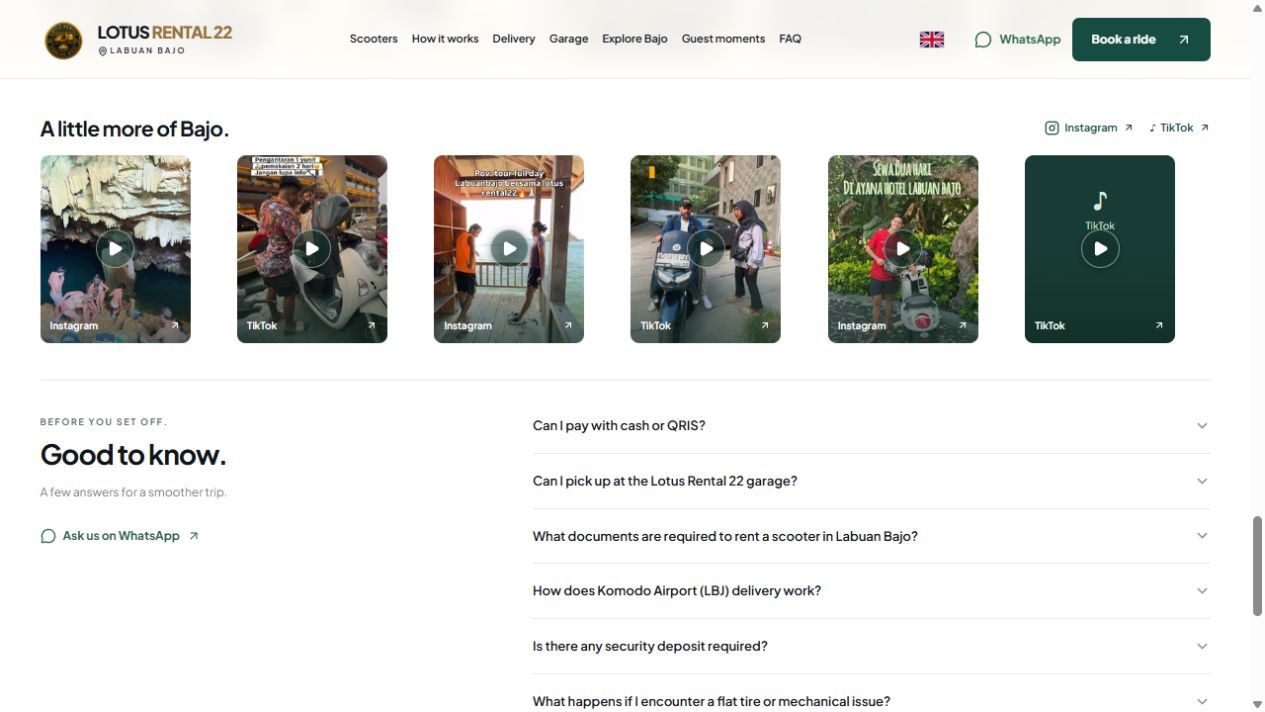
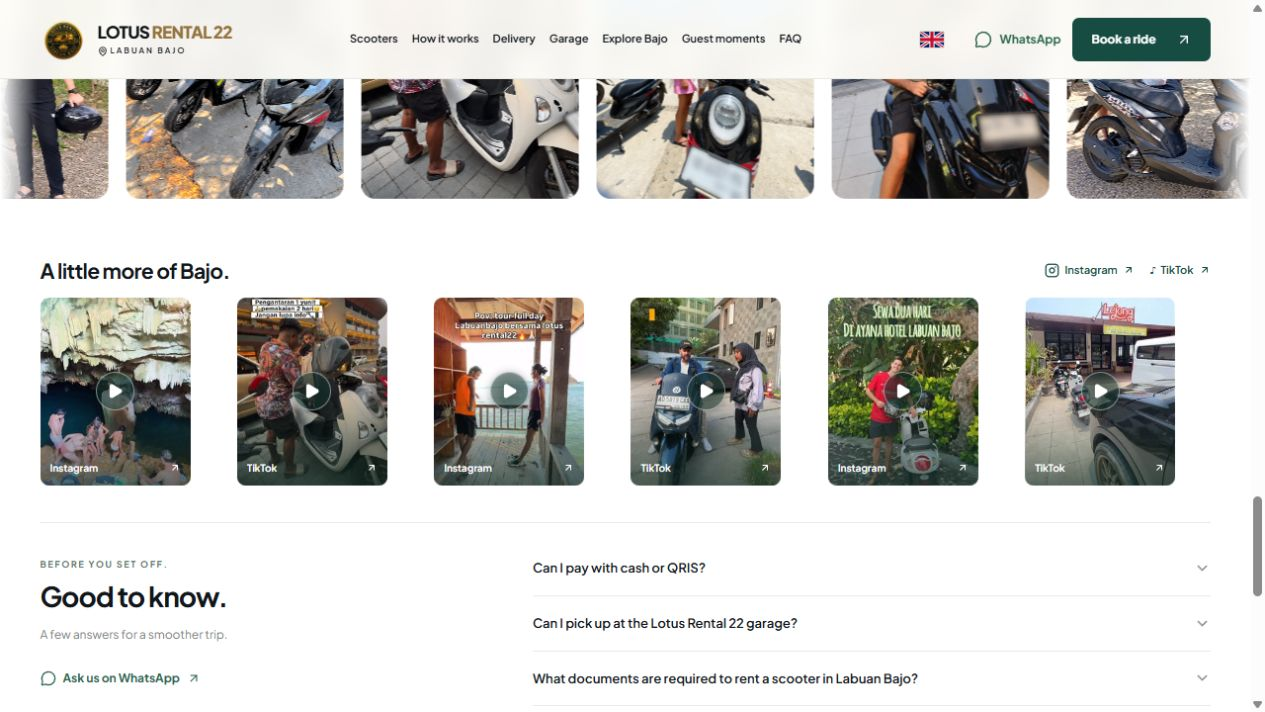
Replace sixth TikTok preview with available video cover

diff --git a/src/data/socialMedia.ts b/src/data/socialMedia.ts
@@ -8,5 +8,6 @@ export const SOCIAL_VIDEOS = [
   {id:'DeMzKrHSPuj',platform:'Instagram',url:'https://www.instagram.com/reel/DeMzKrHSPuj/',cover:'/assets/social/instagram-DeMzKrHSPuj.jpg'},
   {id:'7696095501267094802',platform:'TikTok',url:'https://www.tiktok.com/@rental_motorbajo/video/7696095501267094802',cover:'/assets/social/tiktok-7696095501267094802.jpg'},
   {id:'Ded8xQgykNy',platform:'Instagram',url:'https://www.instagram.com/reel/Ded8xQgykNy/',cover:'/assets/social/instagram-Ded8xQgykNy.jpg'},
-  {id:'7695616389188455687',platform:'TikTok',url:'https://www.tiktok.com/@rental_motorbajo/video/7695616389188455687',cover:null},
+  {id:'7695631504084307218',platform:'TikTok',url:'https://www.tiktok.com/@rental_motorbajo/video/7695631504084307218',cover:'/assets/social/tiktok-7695631504084307218.jpg'},
 ];
+

diff --git a/docs/ASSET_SOURCES.md b/docs/ASSET_SOURCES.md
@@ -32,3 +32,6 @@ Seven owner-supplied handover photos, naturally enhanced using built-in imagegen
 Compact six-card row directly below the guest photo carousel. 145px-high mobile cards scroll horizontally; desktop covers capped at 190px. Links open the exact six owner-selected original posts in new tabs. No embeds, social SDKs, video elements or autoplay; five local 400px-max JPEG covers total 125,094 bytes, lazy-loaded. Sixth TikTok (7695616389188455687) returned unavailable thumbnail metadata after timeout/503 and empty metadata; deliberate branded fallback retains its original URL, without substituting unrelated imagery. Links can require platform login/availability. No OAuth/account access or automatic-feed sync is implied.
 
 Profile URLs: https://www.instagram.com/lotus_rental22/ and https://www.tiktok.com/@rental_motorbajo. Instagram footer link corrected. Edit profiles/posts in src/data/socialMedia.ts. Covers sourced from the public Instagram embed page cover and TikTok oEmbed thumbnail for the selected posts, then locally resized/compressed. Original tracking query parameters omitted from post links. Firecrawl could not retrieve these domains; public embed/oEmbed metadata used instead. No third-party resources requested by this section before a visitor follows a link.
+
+## TikTok replacement — 19 October 2026
+Sixth card replaced with owner-selected https://www.tiktok.com/@rental_motorbajo/video/7695631504084307218. Cover retrieved from public webapp.video-detail metadata (oEmbed omitted thumbnail), resized to max 400px JPEG quality 80. Browser confirmed new URL, local cover and successful image load. All six cards now have original post covers. TypeScript/build passed.

diff --git a/README.md b/README.md
@@ -40,4 +40,5 @@ English is the default for new visitors; their language selection is remembered.
 The compact header selector now includes ES (Español) and IT (Italiano), alongside EN, 中文 and ID. Spanish/Italian editorial and WhatsApp translations are maintained in src/i18n/europeanTranslations.ts. Booking dates use es-ES / it-IT. New visitors still default to English; selected language is remembered.
 
 ## Social previews
-Small post covers below the guest gallery link to the owner-selected Instagram/TikTok posts. They are static, lazy-loaded local images: no autoplay, embeds, external scripts, passwords or live feed integration. Maintain links and covers in src/data/socialMedia.ts and public/assets/social/. One unavailable TikTok cover uses a platform fallback; replace its null cover when a verified cover becomes available.
+Small post covers below the guest gallery link to the owner-selected Instagram/TikTok posts. They are static, lazy-loaded local images: no autoplay, embeds, external scripts, passwords or live feed integration. Maintain links and covers in src/data/socialMedia.ts and public/assets/social/. All six selected posts have local covers. A platform fallback is retained for future missing or failed images.
+
